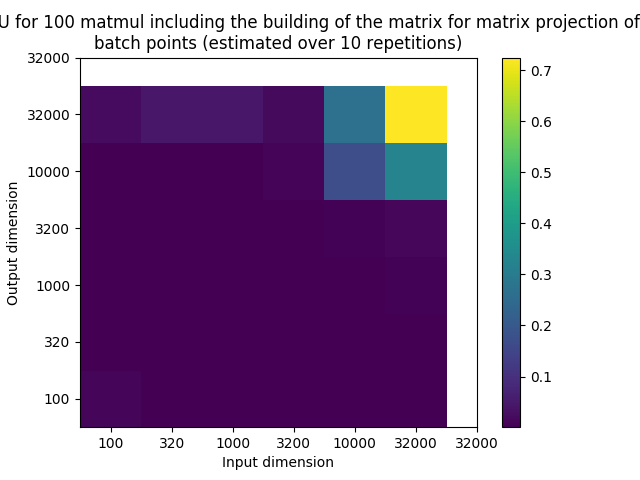
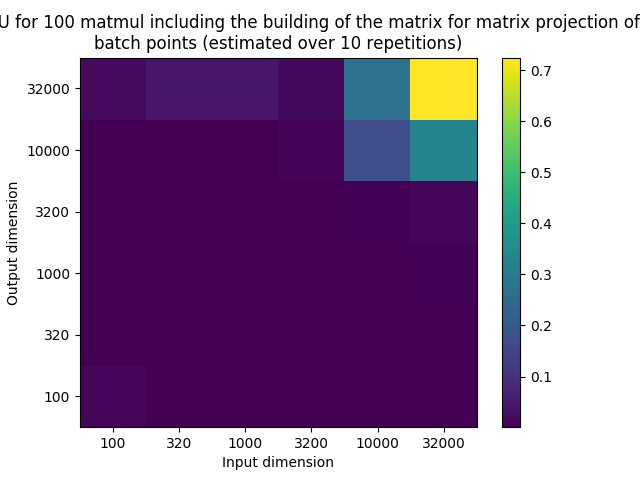
more graph with matmul frequencies, compute energy consumption of ideal OPU

diff --git a/opu-gpu_energy/results/make_figures.py b/opu-gpu_energy/results/make_figures.py
@@ -8,12 +8,20 @@ fig_dir = "./figures/"
 OPU_POWER = 30
 
 
+d_list = [100,320,1000,3200,10000,32000] # Their dimension
+p_list = [100,320,1000,3200,10000,32000] # Their targeted dimension
+repetitions = 10
+repetitions_opu = 10
+batchsize = 1000
+
+
 #cpu_time = np.load(results_dir+"cpu_time"+".npy") 
 #cpu_loadingtime = np.load(results_dir+"cpu_loadingtime"+".npy")
 
 gpu_time = np.load(results_dir+"gpu_time"+".npy")[:6,:6]
 gpu_energy = np.load(results_dir+"gpu_energy"+".npy")[:6,:6]
 gpu_power = gpu_energy/gpu_time
+gpu_frequency = batchsize/gpu_time
 
 gpu_loadingtime = np.load(results_dir+"gpu_loadingtime"+".npy")[:6,:6]
 gpu_loadingenergy = np.load(results_dir+"gpu_loadingenergy"+".npy")[:6,:6]
@@ -22,16 +30,20 @@ gpu_loadingpower = gpu_loadingenergy/gpu_loadingtime
 opu_time = np.load(results_dir+"opu_time"+".npy")[:6,:6]
 opu_power = OPU_POWER*np.ones_like(opu_time)
 opu_energy = opu_time*opu_power
+opu_frequency = batchsize/opu_time
 
 opu_loadingtime = np.load(results_dir+"opu_loadingtime"+".npy")[:6,:6]
 opu_loadingpower = OPU_POWER*np.ones_like(opu_loadingtime)
 opu_loadingenergy = opu_loadingtime*opu_loadingpower
 
-d_list = [100,320,1000,3200,10000,32000,32000] # Their dimension
-p_list = [100,320,1000,3200,10000,32000,32000] # Their targeted dimension
-repetitions = 10
-repetitions_opu = 10
-batchsize = 1000
+# ideal OPU with frequency 2 kHz
+frequency = 2000
+ipu_frequency = np.ones_like(opu_time)*frequency
+ipu_time = batchsize/ipu_frequency
+ipu_power = OPU_POWER*np.ones_like(ipu_time)
+ipu_energy = ipu_time*ipu_power
+
+
 
 def savfig(Z,log=False,unit="",quantity="",file = "fig.png",repe=repetitions):
     fig,ax = plt.subplots()
@@ -70,16 +82,21 @@ def savfig_ratio(Z,log=False,unit="",quantity="",file = "fig.png"):
     plt.savefig(fig_dir+file)
 
 
+
 savfig(gpu_energy,True,"Joule","GPU energy","energy_GPU.png")
 savfig(gpu_time,False,"Second","GPU computation time","time_GPU.png")
 savfig(gpu_power,False,"Watt","GPU average power","average_power_GPU.png")
-
+savfig(gpu_frequency/1000,True,"kHz","GPU frequency","frequency_GPU.png")
 
 savfig(opu_energy,True,"Joule","OPU energy","energy_OPU.png",repe=repetitions_opu)
 savfig(opu_time,False,"Second","OPU computation time","time_OPU.png",repe=repetitions_opu)
 savfig(opu_power,False,"Watt","OPU average power","average_power_OPU.png",repe=repetitions_opu)
+savfig(opu_frequency/1000,False,"kHz","OPU frequency","frequency_OPU.png")
 
-
+savfig(ipu_energy,True,"Joule","OPU energy","energy_idealOPU.png",repe=repetitions_opu)
+savfig(ipu_time,False,"Second","OPU computation time","time_idealOPU.png",repe=repetitions_opu)
+savfig(ipu_power,False,"Watt","OPU average power","average_power_idealOPU.png",repe=repetitions_opu)
+savfig(ipu_frequency/1000,False,"kHz","Ideal OPU frequency","frequency_idealOPU.png")
 
 
 savfig(gpu_loadingenergy,False,"Joule","GPU loading energy","loading_energy_GPU.png")
@@ -96,6 +113,12 @@ savfig(opu_loadingpower,False,"Watt","OPU loading power","loading_power_OPU.png"
 savfig_ratio(gpu_energy/opu_energy,False,"","OPU energy 'saving-up'","energy_ratio.png")
 savfig_ratio(gpu_time/opu_time,False,"","OPU speed-up","time_ratio.png")
 savfig_ratio(gpu_power/opu_power,False,"","GPU average power over OPU power","average_power_ratio.png")
+
+savfig_ratio(gpu_energy/ipu_energy,False,"","OPU energy 'saving-up'","energy_ratio_idealOPU.png")
+savfig_ratio(gpu_time/ipu_time,False,"","OPU speed-up","time_ratio_idealOPU.png")
+savfig_ratio(gpu_power/ipu_power,False,"","GPU average power over OPU power","average_power_ratio_idealOPU.png")
+
+
 
 savfig_ratio(gpu_loadingenergy/opu_loadingenergy,False,"","GPU loading energy over OPU loading energy","loading_energy_ratio.png")
 savfig_ratio(gpu_loadingtime/opu_loadingtime,False,"","GPU loading time over OPU loading time","loading_time_ratio.png")
